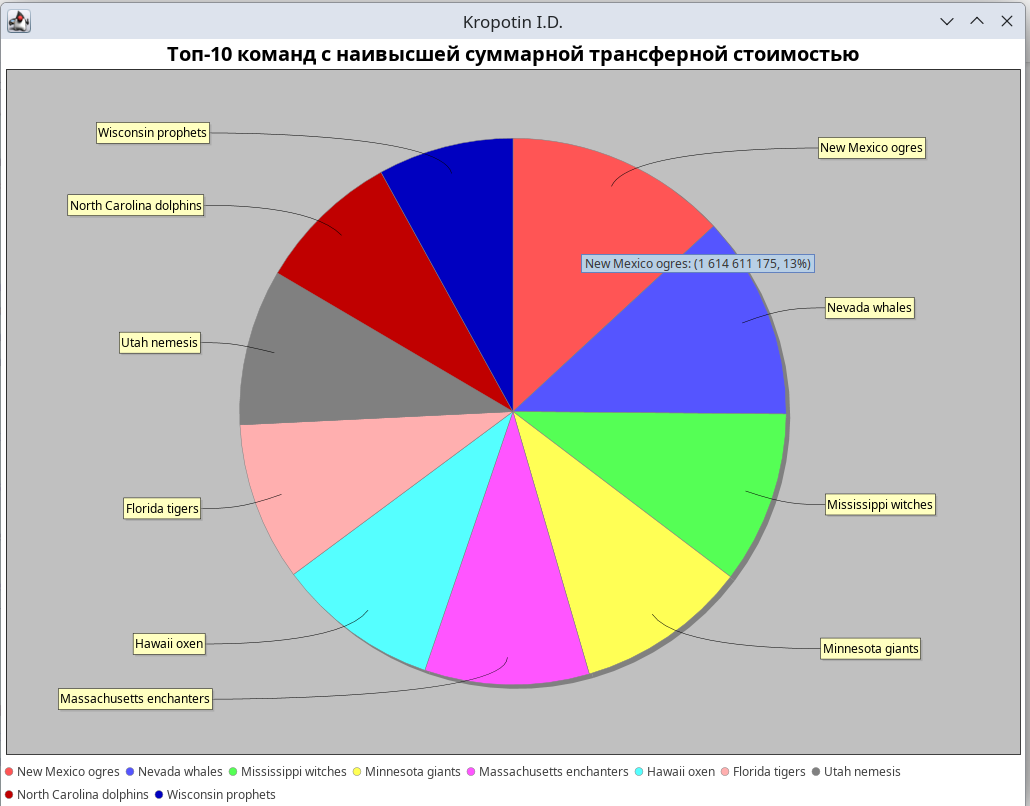
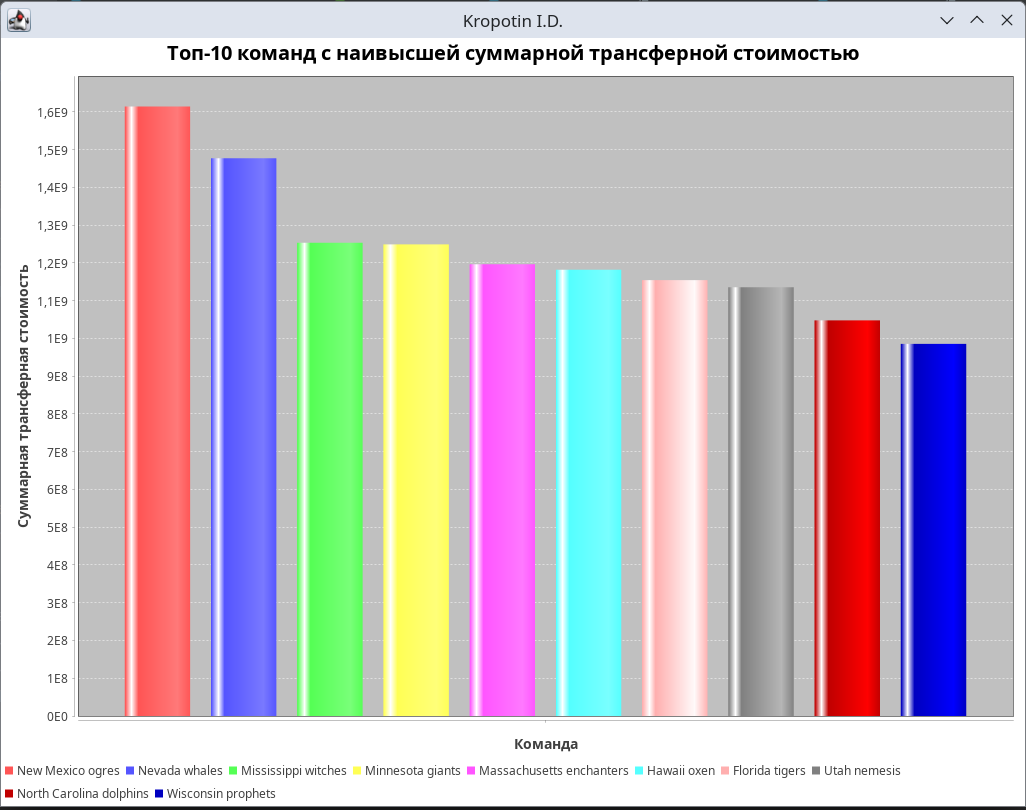
Исправление замечаний

diff --git a/src/main/kotlin/graph/GraphDrawer.kt b/src/main/kotlin/graph/GraphDrawer.kt
@@ -5,27 +5,29 @@ import org.jfree.chart.ChartFactory
 import org.jfree.chart.ChartPanel
 import org.jfree.chart.JFreeChart
 import org.jfree.chart.ui.ApplicationFrame
-import org.jfree.data.general.DefaultPieDataset
-import org.jfree.data.general.PieDataset
+import org.jfree.data.category.CategoryDataset
+import org.jfree.data.category.DefaultCategoryDataset
 
 object GraphDrawer {
 
     fun draw(data: List<TeamTransferTotalCost>) {
         val dataset = createDataset(data)
-        val chart = createPieChart(dataset)
+        val chart = createBarChart(dataset)
         displayChart(chart)
     }
 
-    private fun createDataset(data: List<TeamTransferTotalCost>): PieDataset {
-        val dataset = DefaultPieDataset()
-        data.forEach { dataset.setValue(it.team, it.totalTransferCost) }
+    private fun createDataset(data: List<TeamTransferTotalCost>): CategoryDataset {
+        val dataset = DefaultCategoryDataset()
+        data.forEach { dataset.addValue(it.totalTransferCost, it.team, "") }
 
         return dataset
     }
 
-    private fun createPieChart(data: PieDataset): JFreeChart {
-        val chart = ChartFactory.createPieChart(
-            "Топ-${data.keys.size} команд с наивысшей суммарной трансферной стоимостью",
+    private fun createBarChart(data: CategoryDataset): JFreeChart {
+        val chart = ChartFactory.createBarChart(
+            "Топ-${data.rowCount} команд с наивысшей суммарной трансферной стоимостью",
+            "Команда",
+            "Суммарная трансферная стоимость",
             data
         )
 

diff --git a/src/main/kotlin/resolver/Resolver.kt b/src/main/kotlin/resolver/Resolver.kt
@@ -12,20 +12,17 @@ class Resolver(private val players: List<Player>) : IResolver {
     }
 
     override fun getBestScorerDefender(): Pair<String, Int> {
-        val bestScorerDefender: Player = players
+        return players
             .filter { it.position == Player.Position.DEFENDER }
-            .maxByOrNull { it.goalsCount } ?: throw NotFoundException("Best scorer defender not found")
-
-        return bestScorerDefender
-            .let { Pair(it.name, it.goalsCount) }
+            .maxByOrNull { it.goalsCount }
+            ?.let { it.name to it.goalsCount } ?: throw NotFoundException("Best scorer defender not found")
     }
 
     override fun getTheExpensiveGermanPlayerPosition(): String {
-        val expensiveGermanPlayer: Player = players
+        return players
             .filter { it.nationality == "Germany" }
-            .maxByOrNull { it.transferCost } ?: throw NotFoundException("Expensive german player not found")
-
-        return expensiveGermanPlayer.position.russianName
+            .maxByOrNull { it.transferCost }
+            ?.position?.russianName ?: throw NotFoundException("Expensive german player not found")
     }
 
     override fun getTheRudestTeam(): Team {
